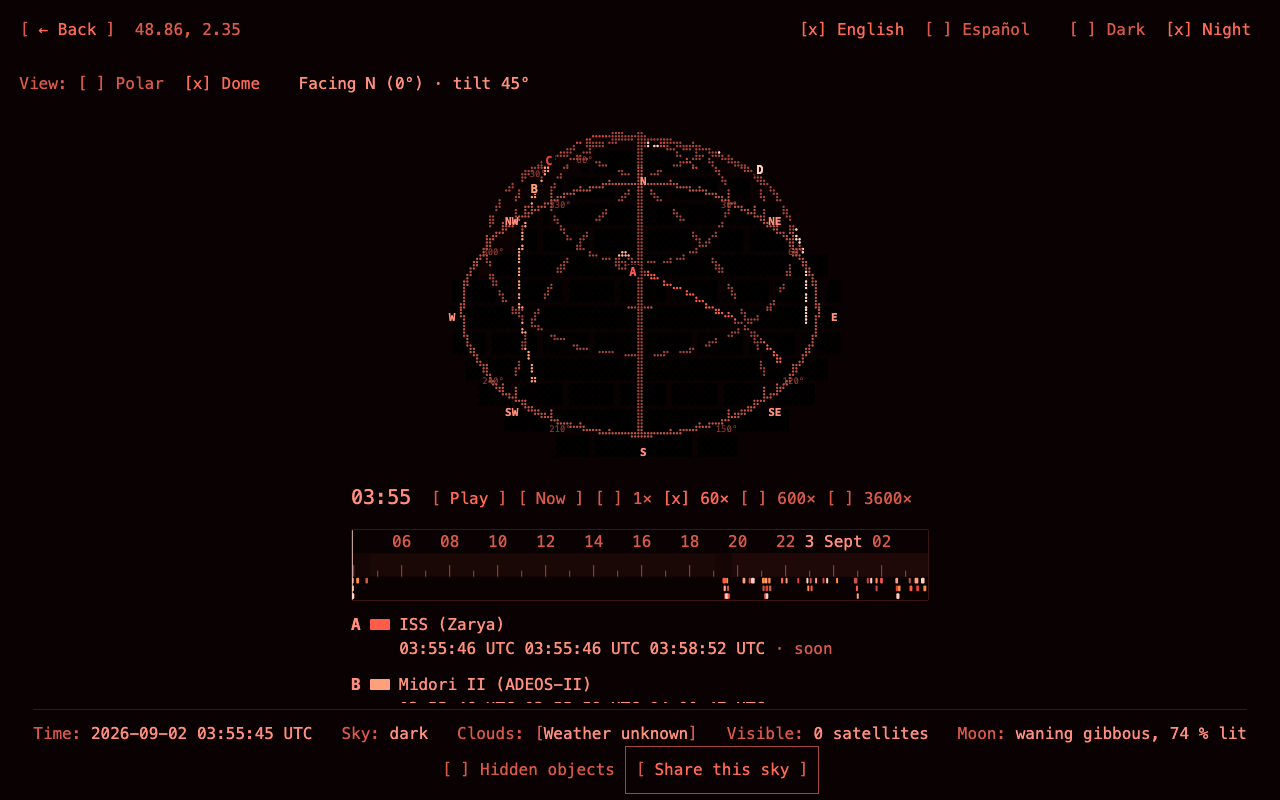
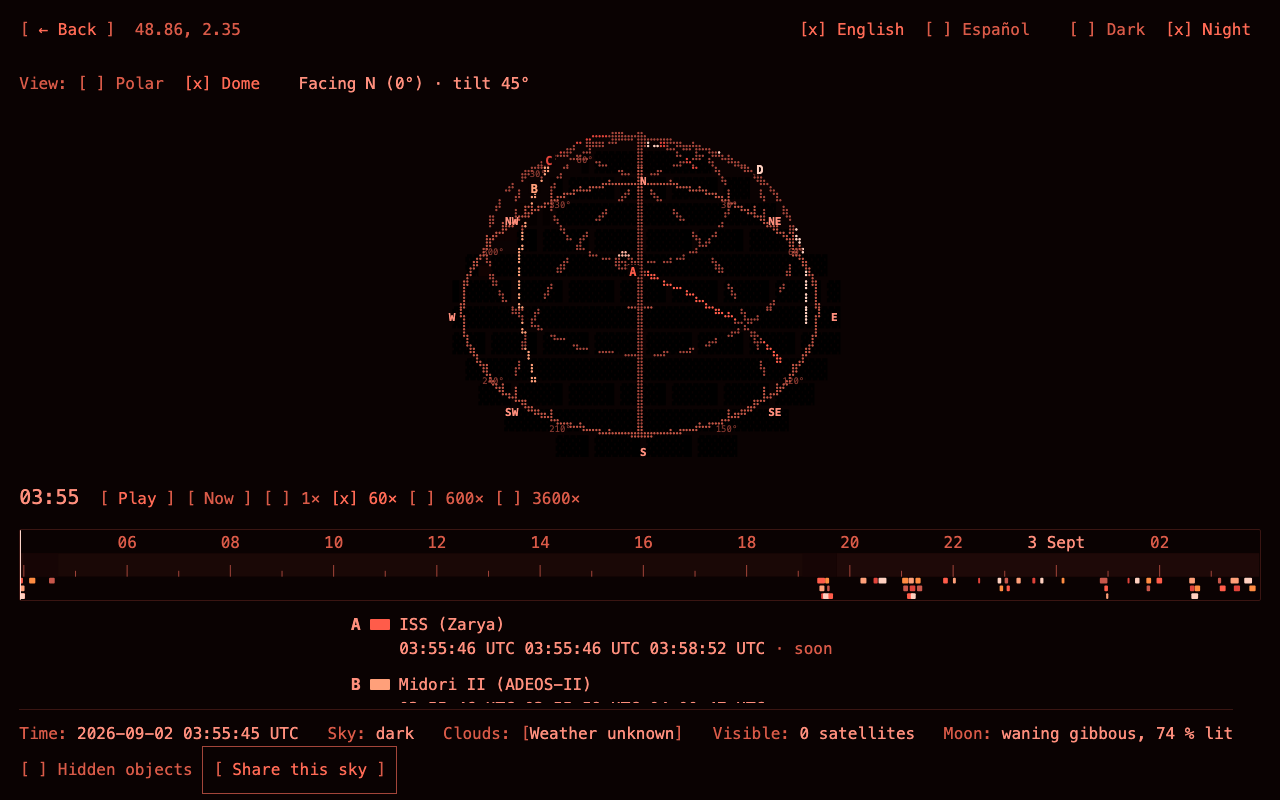
R61: in one column the stripe is the page's whole width and the strip reads from the left (V12-15, D-320)
The stacked frame's stripe slot goes from the box's width, centred, to 100 % of the
frame: the slot spans both columns of the one-column grid, so that is the page's own
width. The clamp's 60-cell floor goes with it — the frame is never narrower than the
wide breakpoint's 100 cells — and the legend keeps the box's width, centred.

The page's one-column row is justify-content: flex-start, so the status strip starts
at the page's content edge, under the stripe's first hour label, and the actions follow
it on that line.

The box and its fit are untouched: fitBox reads the stripe row's height, which a wider
stripe does not change. The 1280 px captures are re-shot.

diff --git a/tests/e2e/live.spec.ts b/tests/e2e/live.spec.ts
@@ -331,7 +331,7 @@ test.describe('the wide live page (R61)', () => {
     expect(await page.evaluate(() => document.documentElement.scrollHeight)).toBe(1080);
   });
 
-  test('at 1280 × 800: one column — the box, the stripe and the legend centred, the strip and the actions under them — and no label over another', async ({ page }) => {
+  test('at 1280 × 800: one column — the box and the legend centred, the stripe full width, the strip and the actions under them at the left — and no label over another', async ({ page }) => {
     await page.setViewportSize({ width: 1280, height: 800 });
     await homeAt(page, T, 'en', true);
     await page.getByTestId('live-link').click();
@@ -344,8 +344,9 @@ test.describe('the wide live page (R61)', () => {
     const clock = await page.getByTestId('time-readout').boundingBox();
     band(readout, toggle);
     below(box, toggle);
-    // D-319 (V12-14): under 1660 px there is no rail. The stripe block is under the box at its width, the legend
-    // under that, and the page's own row — the strip and the actions on one line — under the frame, all centred.
+    // D-319 (V12-14): under 1660 px there is no rail. The stripe block is under the box, the legend under that,
+    // and the page's own row — the strip and the actions on one line — under the frame. The box and the legend are
+    // centred; the stripe takes the page's whole width and the row under it reads from its left edge (D-320, V12-15).
     await expect(page.getByTestId('live-dome')).toHaveAttribute('data-columns', 'one');
     await expect(page.getByTestId('chart-aside')).toHaveCount(0);
     const block = await page.getByTestId('stripe-block').boundingBox();
@@ -355,12 +356,15 @@ test.describe('the wide live page (R61)', () => {
     below(block, box);
     below(legend, block);
     below(strip, legend);
-    // The strip and the actions are one centred row that wraps: the actions on the strip's line where the width allows it, under it where not — never above.
+    // The strip and the actions are one row that wraps: the actions on the strip's line where the width allows it, under it where not — never above.
     expect(actions?.y ?? 0).toBeGreaterThanOrEqual((strip?.y ?? 0) - 1);
     const sideRow = await page.getByTestId('live-side').boundingBox();
     expect(Math.abs((sideRow?.x ?? 0) + (sideRow?.width ?? 0) / 2 - 640)).toBeLessThanOrEqual(2);
     expect(Math.abs((box?.x ?? 0) + (box?.width ?? 0) / 2 - 640)).toBeLessThanOrEqual(2);
-    // The block stacks: the clock readout over the stripe, which takes the box's width.
+    // D-320 (V12-15): the stripe is the page's whole width — wider than the box the height cut here — and the strip starts at its left edge.
+    expect((block?.width ?? 0)).toBeGreaterThan((box?.width ?? 0));
+    expect(Math.abs((strip?.x ?? 0) - (block?.x ?? 0))).toBeLessThanOrEqual(1);
+    // The block stacks: the clock readout over the stripe.
     below(stripe, clock);
     await expectLabelsClear(page);
     // The box is the dome's shape (D-314) and height-bound: the last row reaches the page's bottom. The page does not scroll.

diff --git a/tests/e2e/live-rail.spec.ts b/tests/e2e/live-rail.spec.ts
@@ -102,21 +102,28 @@ for (const [width, height] of [
         const widthBound = width - (rail.x + rail.width) <= UNDER_PX;
         expect(heightBound || widthBound, `the box is bound by the height (${String(height - block.y - block.height)} px under it) or by the width (${String(width - rail.x - rail.width)} px past the rail)`).toBe(true);
       } else {
-        // D-319 (V12-14): one column — no rail; the box, the stripe and the legend centred at the box's width, and
-        // the strip with the actions on one line under the frame, centred; the lowest row reaches the page's bottom.
+        // D-319 (V12-14): one column — no rail; the box and the legend centred at the box's width, the stripe the
+        // frame's whole width (D-320, V12-15), and the strip with the actions on one line under the frame; the
+        // lowest row reaches the page's bottom.
         await expect(page.getByTestId('chart-aside')).toHaveCount(0);
         await expect(page.getByTestId('chart-frame')).toHaveAttribute('data-stacked', 'true');
         expect(Math.abs(box.x + box.width / 2 - width / 2), 'the box is centred').toBeLessThanOrEqual(2);
+        const frame = await page.getByTestId('chart-frame').boundingBox();
         const legend = await page.getByTestId('chart-legend-slot').boundingBox();
         const side = await page.getByTestId('live-side').boundingBox();
         const strip = await page.getByTestId('status-strip').boundingBox();
         const actions = await page.getByTestId('live-actions').boundingBox();
-        if (!legend || !side || !strip || !actions) throw new Error('the rows are not laid out');
+        if (!frame || !legend || !side || !strip || !actions) throw new Error('the rows are not laid out');
         expect(legend.y).toBeGreaterThanOrEqual(block.y + block.height - 1);
         expect(Math.abs(legend.x + legend.width / 2 - width / 2), 'the legend is centred').toBeLessThanOrEqual(2);
         expect(side.y).toBeGreaterThanOrEqual(legend.y + legend.height - 1);
         expect(Math.abs(strip.y - actions.y), 'the strip and the actions share a line').toBeLessThanOrEqual(strip.height);
         expect(height - (side.y + side.height)).toBeLessThanOrEqual(UNDER_PX);
+        // D-320 (V12-15): the stripe spans the frame, and the row under it starts at the same edge — the strip first, the actions after it.
+        expect(Math.abs(block.x - frame.x), 'the stripe starts at the frame’s left edge').toBeLessThanOrEqual(1);
+        expect(Math.abs(block.width - frame.width), 'the stripe is the frame’s whole width').toBeLessThanOrEqual(1);
+        expect(Math.abs(strip.x - side.x), 'the status strip is at the left of its row').toBeLessThanOrEqual(1);
+        expect(actions.x).toBeGreaterThanOrEqual(strip.x - 1);
       }
 
       // D-315 (V12-12): a row of the frame's own under the box at every wide width, the box's width. Its

diff --git a/src/ui/components/guide/skychart/SkyChart.contract.test.tsx b/src/ui/components/guide/skychart/SkyChart.contract.test.tsx
@@ -346,11 +346,12 @@ describe('<ChartFrame> placement (FR-LEG-2, FR-COMP-5)', () => {
   });
 
   /**
-   * R61 (FR-LIVE-7 as amended v1.2.1, D-319): `stacked` is the one-column wide live page — no rail, the drawing,
-   * the stripe and the legend under one another, centred at the box's width, and the legend's height counted
-   * in the box's as the stripe's is. An aside wins over it: the rail is what the rail is for.
+   * R61 (FR-LIVE-7 as amended v1.2.1, D-319, D-320): `stacked` is the one-column wide live page — no rail, the
+   * drawing, the stripe and the legend under one another, the drawing and the legend centred at the box's width
+   * and the stripe the frame's whole width (V12-15), and the legend's height counted in the box's as the
+   * stripe's is. An aside wins over it: the rail is what the rail is for.
    */
-  it('stacks the drawing, the stripe and the legend centred at the box width where it is stacked, and lets an aside win', () => {
+  it('stacks the drawing, the stripe and the legend where it is stacked — the stripe full width, the drawing and the legend centred at the box width — and lets an aside win', () => {
     const media = stubMatchMedia(1280);
     try {
       const { unmount } = render(
@@ -378,7 +379,8 @@ describe('<ChartFrame> placement (FR-LEG-2, FR-COMP-5)', () => {
     const beside = /@container \(min-width: 62ch\) \{([\s\S]*?)\n\}/.exec(css)?.[1] ?? '';
     expect(beside).toMatch(/\[data-stacked='true'\] \{\n\s+grid-template-columns: auto minmax\(0, 1fr\);\n\s+grid-template-rows: auto auto auto auto;\n\s+grid-template-areas:\n\s+'controls status'\n\s+'drawing drawing'\n\s+'stripe stripe'\n\s+'legend legend';/);
     expect(beside).toMatch(/\[data-stacked='true'\]\[data-box='true'\] \.drawing \{\n\s+width: var\(--chart-box-w\);\n\s+height: var\(--chart-box-h\);\n\s+margin: 0 auto;/);
-    expect(beside).toMatch(/\[data-stacked='true'\]\[data-box='true'\] \.stripe \{\n\s+width: clamp\(calc\(60 \* var\(--cell\)\), var\(--chart-box-w\), 100%\);\n\s+margin: 0 auto;/);
+    // D-320 (V12-15): the stripe spans the frame — the page's whole width — where the legend keeps the box's.
+    expect(beside).toMatch(/\[data-stacked='true'\]\[data-box='true'\] \.stripe \{\n\s+width: 100%;\n\s+\}/);
     expect(beside).toMatch(/\[data-stacked='true'\] \.legend \{\n\s+width: clamp\(calc\(60 \* var\(--cell\)\), var\(--chart-box-w, 100%\), 100%\);\n\s+margin: 0 auto;\n\s+align-self: start;\n\s+max-height: calc\(4 \* var\(--row\)\);/);
   });
 

diff --git a/src/ui/components/guide/skychart/ChartFrame.module.css b/src/ui/components/guide/skychart/ChartFrame.module.css
@@ -245,13 +245,18 @@
     margin: 0 auto;
   }
 
-  /* The stripe and the legend are the box's width, but never under 60 cells (the twelve hour labels' width) nor
-     over the frame's: a box cut small by a short window would otherwise wrap the time row into a column, and the
-     taller row would cut the box smaller still, down to nothing (seen at 1280 x 540). Wider than a small box they
-     stand centred over it. */
+  /* R61 (V12-15, D-320): in one column the stripe is the frame's whole width — the owner, on the first
+     one-column build: the time strip is full width always. It was the box's width like the legend, and a box
+     the height had cut small (1280 x 720, and every short window) left the stripe an island under a drawing
+     that is centred anyway. At 100 % it also clears the 60 cells twelve hour labels want at every wide width,
+     whatever the height does to the box, so the clamp that guarded that case goes with it.
+
+     The legend keeps the box's width, but never under 60 cells (the twelve hour labels' width) nor over the
+     frame's: a box cut small by a short window would otherwise wrap the time row into a column, and the taller
+     row would cut the box smaller still, down to nothing (seen at 1280 x 540). Wider than a small box it
+     stands centred over it. */
   .fill[data-compact='false'][data-legend='true'][data-stacked='true'][data-box='true'] .stripe {
-    width: clamp(calc(60 * var(--cell)), var(--chart-box-w), 100%);
-    margin: 0 auto;
+    width: 100%;
   }
 
   .fill[data-compact='false'][data-legend='true'][data-stacked='true'] .legend {

diff --git a/src/ui/screens/Live.module.css b/src/ui/screens/Live.module.css
@@ -172,8 +172,15 @@
 
 /* R61 (FR-LIVE-7 as amended v1.2.1, V12-14, D-319): the one-column wide page,
    under `LIVE_TWO_COLUMN_MIN_PX`. The page has its third row back — the status
-   strip and the actions, on one line, centred under the frame, which stacks
-   the drawing, the stripe and the legend centred at the box's width. */
+   strip and the actions, on one line under the frame, which stacks the
+   drawing, the stripe (the page's whole width, V12-15) and the legend.
+
+   V12-15 (D-320): that line reads from the left, not from the centre. Centred,
+   the five facts of the strip moved sideways under a dome that does not as the
+   longest of them changed — the cloud words, the count, the Moon's phase — and
+   read as a caption rather than as a row of values. Against the left edge they
+   are where the stripe's first hour label is, and the actions follow the strip
+   on the same line. */
 .page[data-compact='false'][data-columns='one'] {
   grid-template-areas:
     'top'
@@ -185,7 +192,7 @@
 .page[data-compact='false'][data-columns='one'] .side {
   flex-direction: row;
   flex-wrap: wrap;
-  justify-content: center;
+  justify-content: flex-start;
   align-items: baseline;
   gap: 0 calc(3 * var(--cell));
 }

diff --git a/src/ui/screens/Live.test.tsx b/src/ui/screens/Live.test.tsx
@@ -270,6 +270,8 @@ describe('<LivePage>', () => {
     expect(screen.getByTestId('chart-frame')).toHaveAttribute('data-box', 'true');
     expect(screen.getByTestId('live-side').parentElement).toBe(screen.getByTestId('live-page'));
     expect(readFileSync('src/ui/screens/Live.module.css', 'utf8')).toMatch(/\.page\[data-compact='false'\]\[data-columns='one'\] \{\n\s+grid-template-areas:\n\s+'top'\n\s+'dome'\n\s+'side';/);
+    // D-320 (V12-15): that row reads from the left — the strip at the page's content edge, the actions after it.
+    expect(readFileSync('src/ui/screens/Live.module.css', 'utf8')).toMatch(/\.page\[data-compact='false'\]\[data-columns='one'\] \.side \{\n\s+flex-direction: row;\n\s+flex-wrap: wrap;\n\s+justify-content: flex-start;/);
     one.unmount();
     media.restore();
     media = stubMatchMedia(LIVE_TWO_COLUMN_MIN_PX, 1080);
